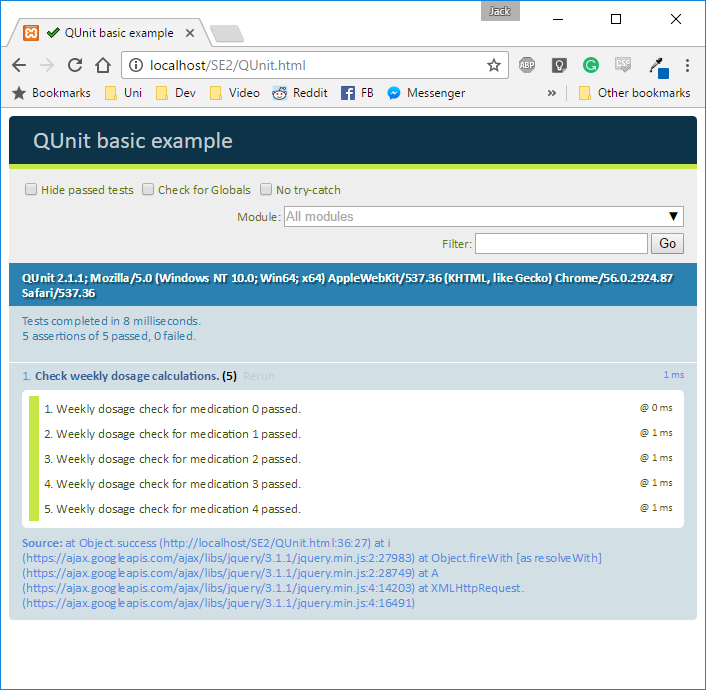
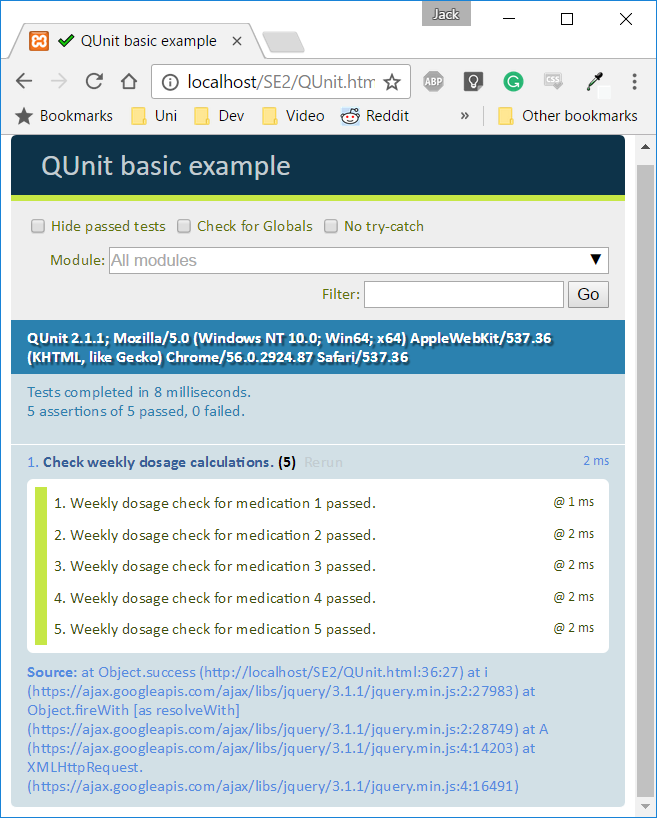
End of day commit 24 02

diff --git a/index.html b/index.html
@@ -25,7 +25,7 @@
         <link href="style.css" rel="stylesheet">
         
         <style>
-        
+            
         </style>
         
     </head>
@@ -62,11 +62,11 @@
             <div class="row">
                 <div class="col-sm-2"></div>
                 <div class="col-sm-8">
-                    <nav class="navbar navbar-light" style="background-color: #e3f2fd;">
+                    <nav class="navbar navbar-default">
                         <div class="container content_centered">
                             <ul class="nav navbar-nav">
-                                <li class="active"><a href="index.html"> <span class="glyphicon glyphicon-home"></span><b>  Dashboard - Home</b></a></li>
-                                <li ><a href="medication.html"><span class="glyphicon glyphicon-list-alt"></span><b>  Medication Profile</b></a></li>
+                                <li class="active"><a href="index.html"> <span class="glyphicon glyphicon-home"></span>  Dashboard - Home</a></li>
+                                <li ><a href="medication.html"><span class="glyphicon glyphicon-list-alt"></span>  Medication Profile</a></li>
                             </ul>
                         </div>
                     </nav>
@@ -79,25 +79,25 @@
             <div class="row">
                <div class="col-sm-2"></div>
                <div class="col-sm-8">
-                    <div class="well">
+                    <div class="well well-outer">
                         <div class="row">
                             <div class="col-sm-5">
-                                <div class="well" id="userProfile">
+                                <div class="well well-inner-top" id="userProfile">
                                 </div>
-                                <div class="well" id="addWell">
+                                <div class="well well-inner-bottom" id="addWell">
                                     <h3><b>Add new medication:</b></h3>
                                     <br>
                                     <div class="row">
                                         <div class="col-sm-6 content_centered">
                                             <button class="btn btn-lg btn-sq add-butt" data-toggle="modal" data-target="#byName">
-                                                <b>By name</b>
+                                                Name
                                                 <br>
-                                                <span class="glyphicon glyphicon-plus glyph-lg"></span>
+                                                <span class="glyphicon glyphicon-pencil glyph-lg"></span>
                                             </button>
                                         </div>
                                         <div class="col-sm-6 content_centered">
                                             <button class="btn btn-lg btn-sq add-butt" data-toggle="modal" data-target="#byBar">
-                                                <b>Barcode</b>
+                                                Barcode
                                                 <br>
                                                 <span class="glyphicon glyphicon-barcode glyph-lg"></span>
 
@@ -147,7 +147,7 @@
                         </div>
                         <div class="modal-body">
                             
-                            
+                            <p>Fill in the following form, then click add medication.</p>
                             
                             <form action="PMApi.php" method="post" class="form-horizontal">
                                 
@@ -224,7 +224,8 @@
                             <h4 class="modal-title"><b>Add new medication by Barcode</b></h4>
                         </div>
                         <div class="modal-body">
-                            
+                            <p>Fill in the following form, then click add medication.</p>
+
                             <form action="PMApi.php" method="post" class="form-horizontal">
 
 

diff --git a/style.css b/style.css
@@ -12,15 +12,74 @@
 body{
     font-family: "frutiger";
 }
-
-nav {
-    width: 100%;
-    height: 40px;
+.btn:focus,
+.btn:hover{
+    background-color: #0077e6;
+    border-color: none;
+    color: white;
 }
 
-.nav a{
-    font-size: 1.4em !important;
+.well-outer{
+    padding:20px;
 }
+
+.well-inner-top{
+    padding:20px;
+    margin:0px;
+    margin-top:0px;
+    margin-bottom:10px;
+}
+
+.well-inner-bottom{
+    padding:20px;
+    margin:0px;
+    margin-top:10px;
+    margin-bottom:0px;
+}
+
+
+/* navbar */
+.navbar-default {
+    background-color: white;
+    border-style: solid;
+    border: 0px;
+    border-bottom: solid #0064b7 1px;
+    padding: 0px;
+}
+/* title */
+.navbar-default .navbar-brand {
+    color: white;
+}
+.navbar-default .navbar-brand:hover,
+.navbar-default .navbar-brand:focus {
+    color: white;
+}
+/* link */
+.navbar-default .navbar-nav > li > a {
+    color: #456;
+    font-size: 130%;
+    margin: 0px;
+}
+.navbar-default .navbar-nav > li > a:hover,
+.navbar-default .navbar-nav > li > a:focus {
+    color: #0077e6;
+}
+.navbar-default .navbar-nav > .active > a, 
+.navbar-default .navbar-nav > .active > a:hover, 
+.navbar-default .navbar-nav > .active > a:focus {
+    color: #0064b7;
+    background-color: white;
+    font-weight:bold;
+}
+.navbar-default .navbar-nav > .open > a, 
+.navbar-default .navbar-nav > .open > a:hover, 
+.navbar-default .navbar-nav > .open > a:focus {
+    color: #555;
+    background-color: #D5D5D5;
+
+}
+
+
 
 /* Set height of the grid so .sidenav can be 100% (adjust as needed) */
 .row.content {height: 550px}

diff --git a/medication.html b/medication.html
@@ -50,11 +50,11 @@
             <div class="row">
                 <div class="col-sm-2"></div>
                 <div class="col-sm-8">
-                    <nav class="navbar navbar-light" style="background-color: #e3f2fd;">
+                    <nav class="navbar navbar-default">
                         <div class="container content_centered">
                             <ul class="nav navbar-nav">
-                                <li ><a href="index.html"> <span class="glyphicon glyphicon-home"></span><b>  Dashboard - Home</b></a></li>
-                                <li class="active"><a href="medication.html"><span class="glyphicon glyphicon-list-alt"></span><b>  Medication Profile</b></a></li>
+                                <li ><a href="index.html"> <span class="glyphicon glyphicon-home"></span>  Dashboard - Home</a></li>
+                                <li class="active"><a href="medication.html"><span class="glyphicon glyphicon-list-alt"></span>  Medication Profile</a></li>
                             </ul>
                         </div>
                     </nav>

diff --git a/QUnit.html b/QUnit.html
@@ -38,10 +38,10 @@
                         for (i=0; i<medProfile.length; i++){
                             
                             var strength = medProfile[i]["strength"];
-                            var tabs = 4;
+                            var tabs = medProfile[i]["tabsperday"];
                             
                             var value = dosage(strength, tabs);
-                            assert.equal(value, check_array[i], "Weekly dosage check for medication "+ i +" passed.");
+                            assert.equal(value, check_array[i], "Weekly dosage check for medication "+ (i+1) +" passed.");
                         }
 
                     })
